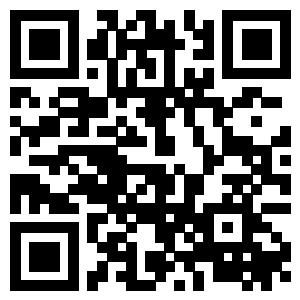
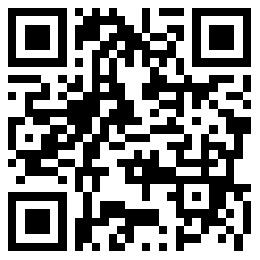
修改排版样式和二维码

diff --git a/index.html b/index.html
@@ -6,7 +6,6 @@
     <title>何帆的在线简历</title>
     <link rel="stylesheet" href="./style/style.css" />
     <script src="//at.alicdn.com/t/font_2391479_pyr5giklkq.js"></script>
-
     <!-- <script src="./js/main.js"></script> -->
   </head>
 
@@ -175,6 +174,9 @@
             </ul>
           </div>
         </div>
+        
+      </main>
+      <main class="right">
         <div class="small-header certificate">
           <div class="main-header">个人履历</div>
         </div>
@@ -212,9 +214,7 @@
             </ul>
           </div>
         </div>
-      </main>
-      <main class="right">
-        <div class="big-header skills ">
+        <div class="big-header skills not-first">
           <div class="header-wrapper">
             <div class="main-header">技能</div>
             <div class="vice-header">Skills</div>
@@ -380,7 +380,7 @@
             <ul class="content-main">
               <li class="item star">
                 简历在线地址:
-                <a class="detail-skills" href="https://crazyones110.github.io/resume.github.io/index">https://crazyones110.github.io/resume.github.io/index</a>
+                <a class="detail-skills" href="https://fanhhhhh.github.io/resume-page/index">https://fanhhhhh.github.io/resume-page/index</a>
               </li>
               <li class="item star">可在手机电脑线上简历访问本页项目</li>
             </ul>

diff --git a/README.md b/README.md
@@ -1,2 +1,2 @@
 # 查看简历
-https://crazyones110.github.io/resume.github.io/index
+https://fanhhhhh.github.io/resume-page/index
